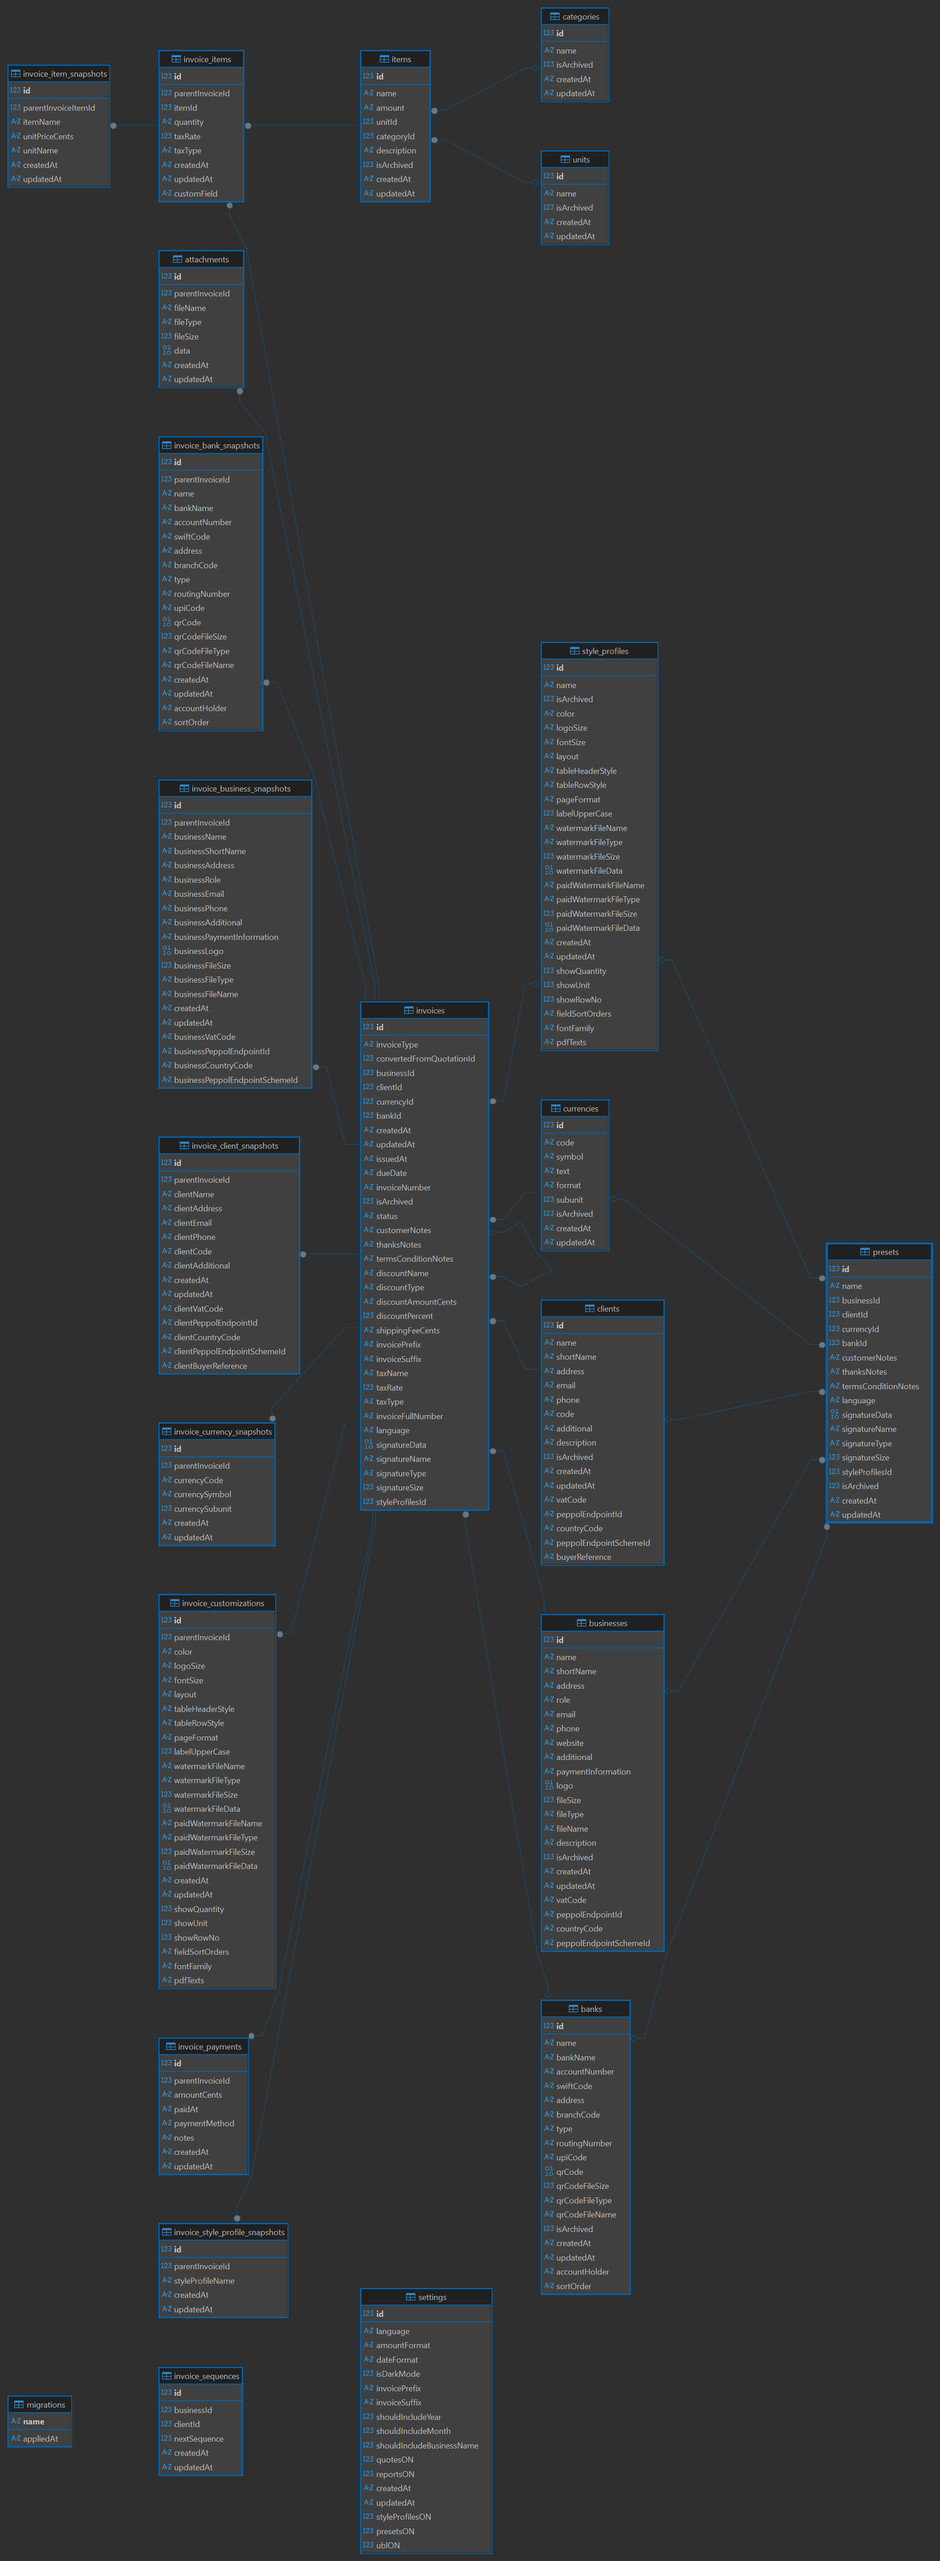
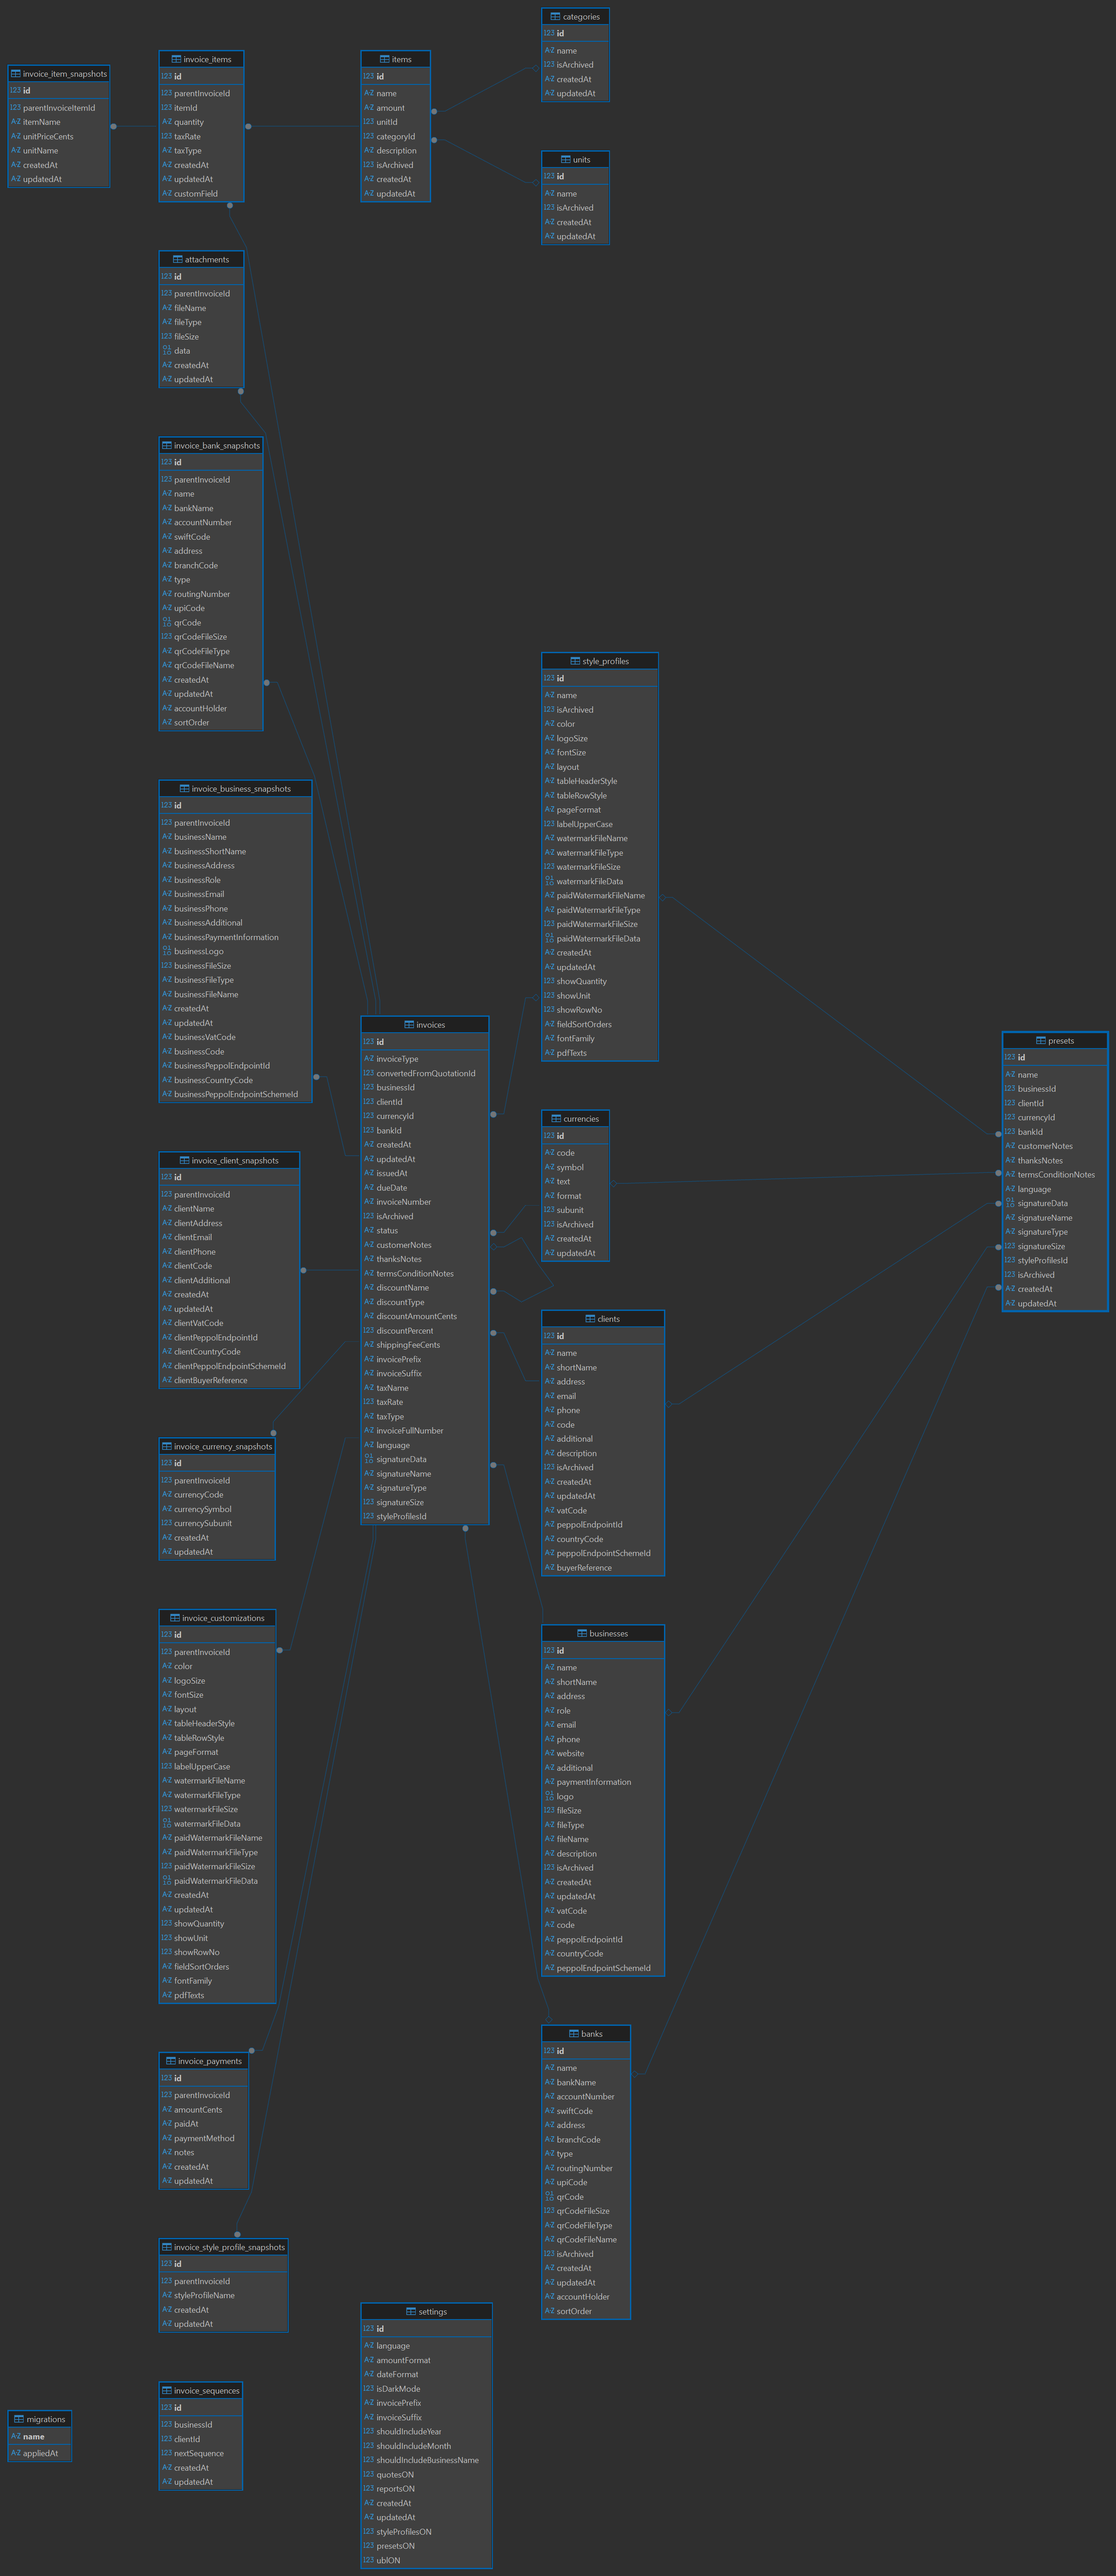
readme

diff --git a/src/backend/webserver/config.ts b/src/backend/webserver/config.ts
@@ -3,5 +3,5 @@ export const APP_CONFIG = {
   PORT: '3000',
   DB_DIRECTORY: 'data',
   FE_SERVER_URL: 'http://127.0.0.1:5173',
-  VERSION: '2.2.2'
+  VERSION: '2.3.0'
 };

diff --git a/README.md b/README.md
@@ -33,6 +33,7 @@ Invoice Builder is designed for freelancers, contractors, and small businesses w
 - **Cross-platform support** - macOS, Windows & Linux
 - **Import/export freedom** - JSON, XLSX, full database backups
 - **Highly customizable PDFs** - branding, layout, colors, typography
+- **UBL & Peppol BIS 3.0 support** – generate invoices that are compliant with European e-invoicing standards for automatic submission to buyers and public administrations
 
 If you value **privacy, portability, and control**, this app is built for you.
 
@@ -47,6 +48,7 @@ If you value **privacy, portability, and control**, this app is built for you.
 - Multi-currency support: choose the currency for each invoice/quote individually
 - Responsive layout - usable on small and large screens, resizable windows supported
 - Invoice/Quote translations – select a language per document, independent of app settings
+- Export invoices in UBL 2.1 / Peppol BIS Billing 3.0 XML format, fully compliant for automated e-invoicing
 
 ### Business Data Management
 
@@ -104,7 +106,7 @@ If you value **privacy, portability, and control**, this app is built for you.
 - Invoice/quote number prefix & suffix
 - File name customization for exported PDFs
 - Light & dark mode
-- Enable/disable reports, style profiles, presets and quotes
+- Enable/disable UBL 2.1 Peppol BIS Billing 3.0, reports, style profiles, presets and quotes
 - Check for updates via GitHub releases
 - Presets: Predefine default Invoice/Quote data (e.g., business, client, currency, bank, style profile, notes, language, signature) to streamline document creation
 
@@ -423,6 +425,7 @@ Please open an issue before starting major work to ensure alignment.
 
 | Version | Status                |
 | ------- | --------------------- |
+| v2.3.0  | ✅ Actively supported |
 | v2.2.2  | ✅ Actively supported |
 | v2.2.1  | ✅ Actively supported |
 | v2.2.0  | ✅ Actively supported |

diff --git a/TUTORIAL.md b/TUTORIAL.md
@@ -1088,3 +1088,24 @@ You can filter reports using:
 
 ![Reports predefined filters](tutorial/reports_page_3.jpg)
 ![Reports custom filters](tutorial/reports_page_4.jpg)
+
+## e-invoices
+
+The application supports UBL Peppol XML: you can download the XML embedded with the PDF, or as a standalone XML file. This feature is enabled by default and can be toggled in the Settings page.
+
+![E-Invoice](tutorial/e-invoice-actions.jpg)
+
+To generate valid UBL/Peppol XML, additional fields are available on Businesses and Clients. These fields must be properly filled to produce compliant invoices.
+
+![E-Invoice](tutorial/e-invoice-actions1.jpg)
+![E-Invoice](tutorial/e-invoice-actions2.jpg)
+
+> **ℹ UBL XML may fail validation if data is misconfigured.**
+> The application only checks that required fields are present. It does not guarantee that all values conform to UBL/Peppol standards.
+>
+> For example:
+>
+> - Tax names must match supported values (e.g., VAT). Arbitrary text will cause validation errors.
+> - Currency codes must be standard ISO codes (e.g., EUR, USD). Random text will fail validation.
+>
+> Use a Peppol XML validator (e.g., [https://peppolvalidator.com/](https://peppolvalidator.com/)) to ensure compliance before sending.

diff --git a/History.md b/History.md
@@ -1,10 +1,11 @@
 # Invoice Builder
 
-## [DATE], version 2.3.0
+## 2026-03-02, version 2.3.0
 
 New features & improvements
 
 - Official Docker prebuilt image published
+- UBL Peppol XML support: download embedded XML alongside the PDF, or as a standalone XML file. [Read more](https://github.com/piratuks/invoice-builder/blob/main/TUTORIAL.md#e-invoices)
 
 Bug Fixes
 
